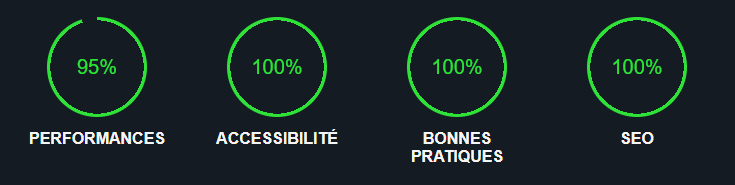
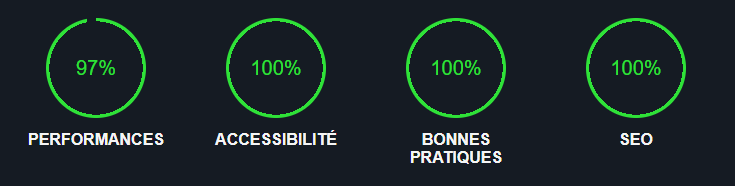
Correctif insight

diff --git a/insight.html b/insight.html
@@ -1,0 +1,116 @@
+<html>
+  <head>
+    <style>
+      body {
+        margin: 0;
+        display: inline-block;
+      }
+      .first-line {
+        background: #151b23;
+        width: 720px;
+        padding: 20px 10px 5px;
+        display: flex;
+        align-items: start;
+        justify-content: center;
+        gap: 30px;
+        border-bottom: 2px solid grey;
+      }
+      .card {
+        display: flex;
+        flex-direction: column;
+        align-items: center;
+        width: 150px;
+      }
+      [role="progressbar"] {
+        --percentage: var(--value);
+        --primary: rgb(47, 226, 56);
+        --secondary: #151b23;
+        --size: 100px;
+        width: var(--size);
+        aspect-ratio: 1;
+        border-radius: 50%;
+        position: relative;
+        overflow: hidden;
+        display: grid;
+        place-items: center;
+      }
+
+      [role="progressbar"]::before {
+        content: "";
+        position: absolute;
+        top: -10px;
+        left: -10px;
+        width: 120%;
+        height: 120%;
+        background: conic-gradient(
+          var(--primary) calc(var(--percentage) * 1%),
+          var(--secondary) 0
+        );
+        mask: radial-gradient(white 55%, transparent 0);
+        mask-mode: alpha;
+        -webkit-mask: radial-gradient(#0000 55%, #000 0);
+        -webkit-mask-mode: alpha;
+      }
+
+      [role="progressbar"]::after {
+        counter-reset: percentage var(--value);
+        content: counter(percentage) "%";
+        font-family: Helvetica, Arial, sans-serif;
+        font-size: calc(var(--size) / 5);
+        color: var(--primary);
+      }
+
+      h2 {
+        text-align: center;
+        text-transform: uppercase;
+        font-family: Arial, Helvetica, sans-serif;
+        font-size: 1rem;
+        color: whitesmoke;
+      }
+    </style>
+  </head>
+  <body>
+    <div class="first-line">
+      <div class="card">
+        <div
+          role="progressbar"
+          aria-valuenow="97"
+          aria-valuemin="0"
+          aria-valuemax="100"
+          style="--value: 97"
+        ></div>
+        <h2>Performances</h2>
+      </div>
+      <div class="card">
+        <div
+          role="progressbar"
+          aria-valuenow="100"
+          aria-valuemin="0"
+          aria-valuemax="100"
+          style="--value: 100"
+        ></div>
+        <h2>Accessibilité</h2>
+      </div>
+      <div class="card">
+        <div
+          role="progressbar"
+          aria-valuenow="100"
+          aria-valuemin="0"
+          aria-valuemax="100"
+          style="--value: 100"
+        ></div>
+        <h2>Bonnes Pratiques</h2>
+      </div>
+      <div class="card">
+        <div
+          role="progressbar"
+          aria-valuenow="100"
+          aria-valuemin="0"
+          aria-valuemax="100"
+          style="--value: 100"
+        ></div>
+        <h2>SEO</h2>
+      </div>
+    </div>
+  </body>
+</html>
